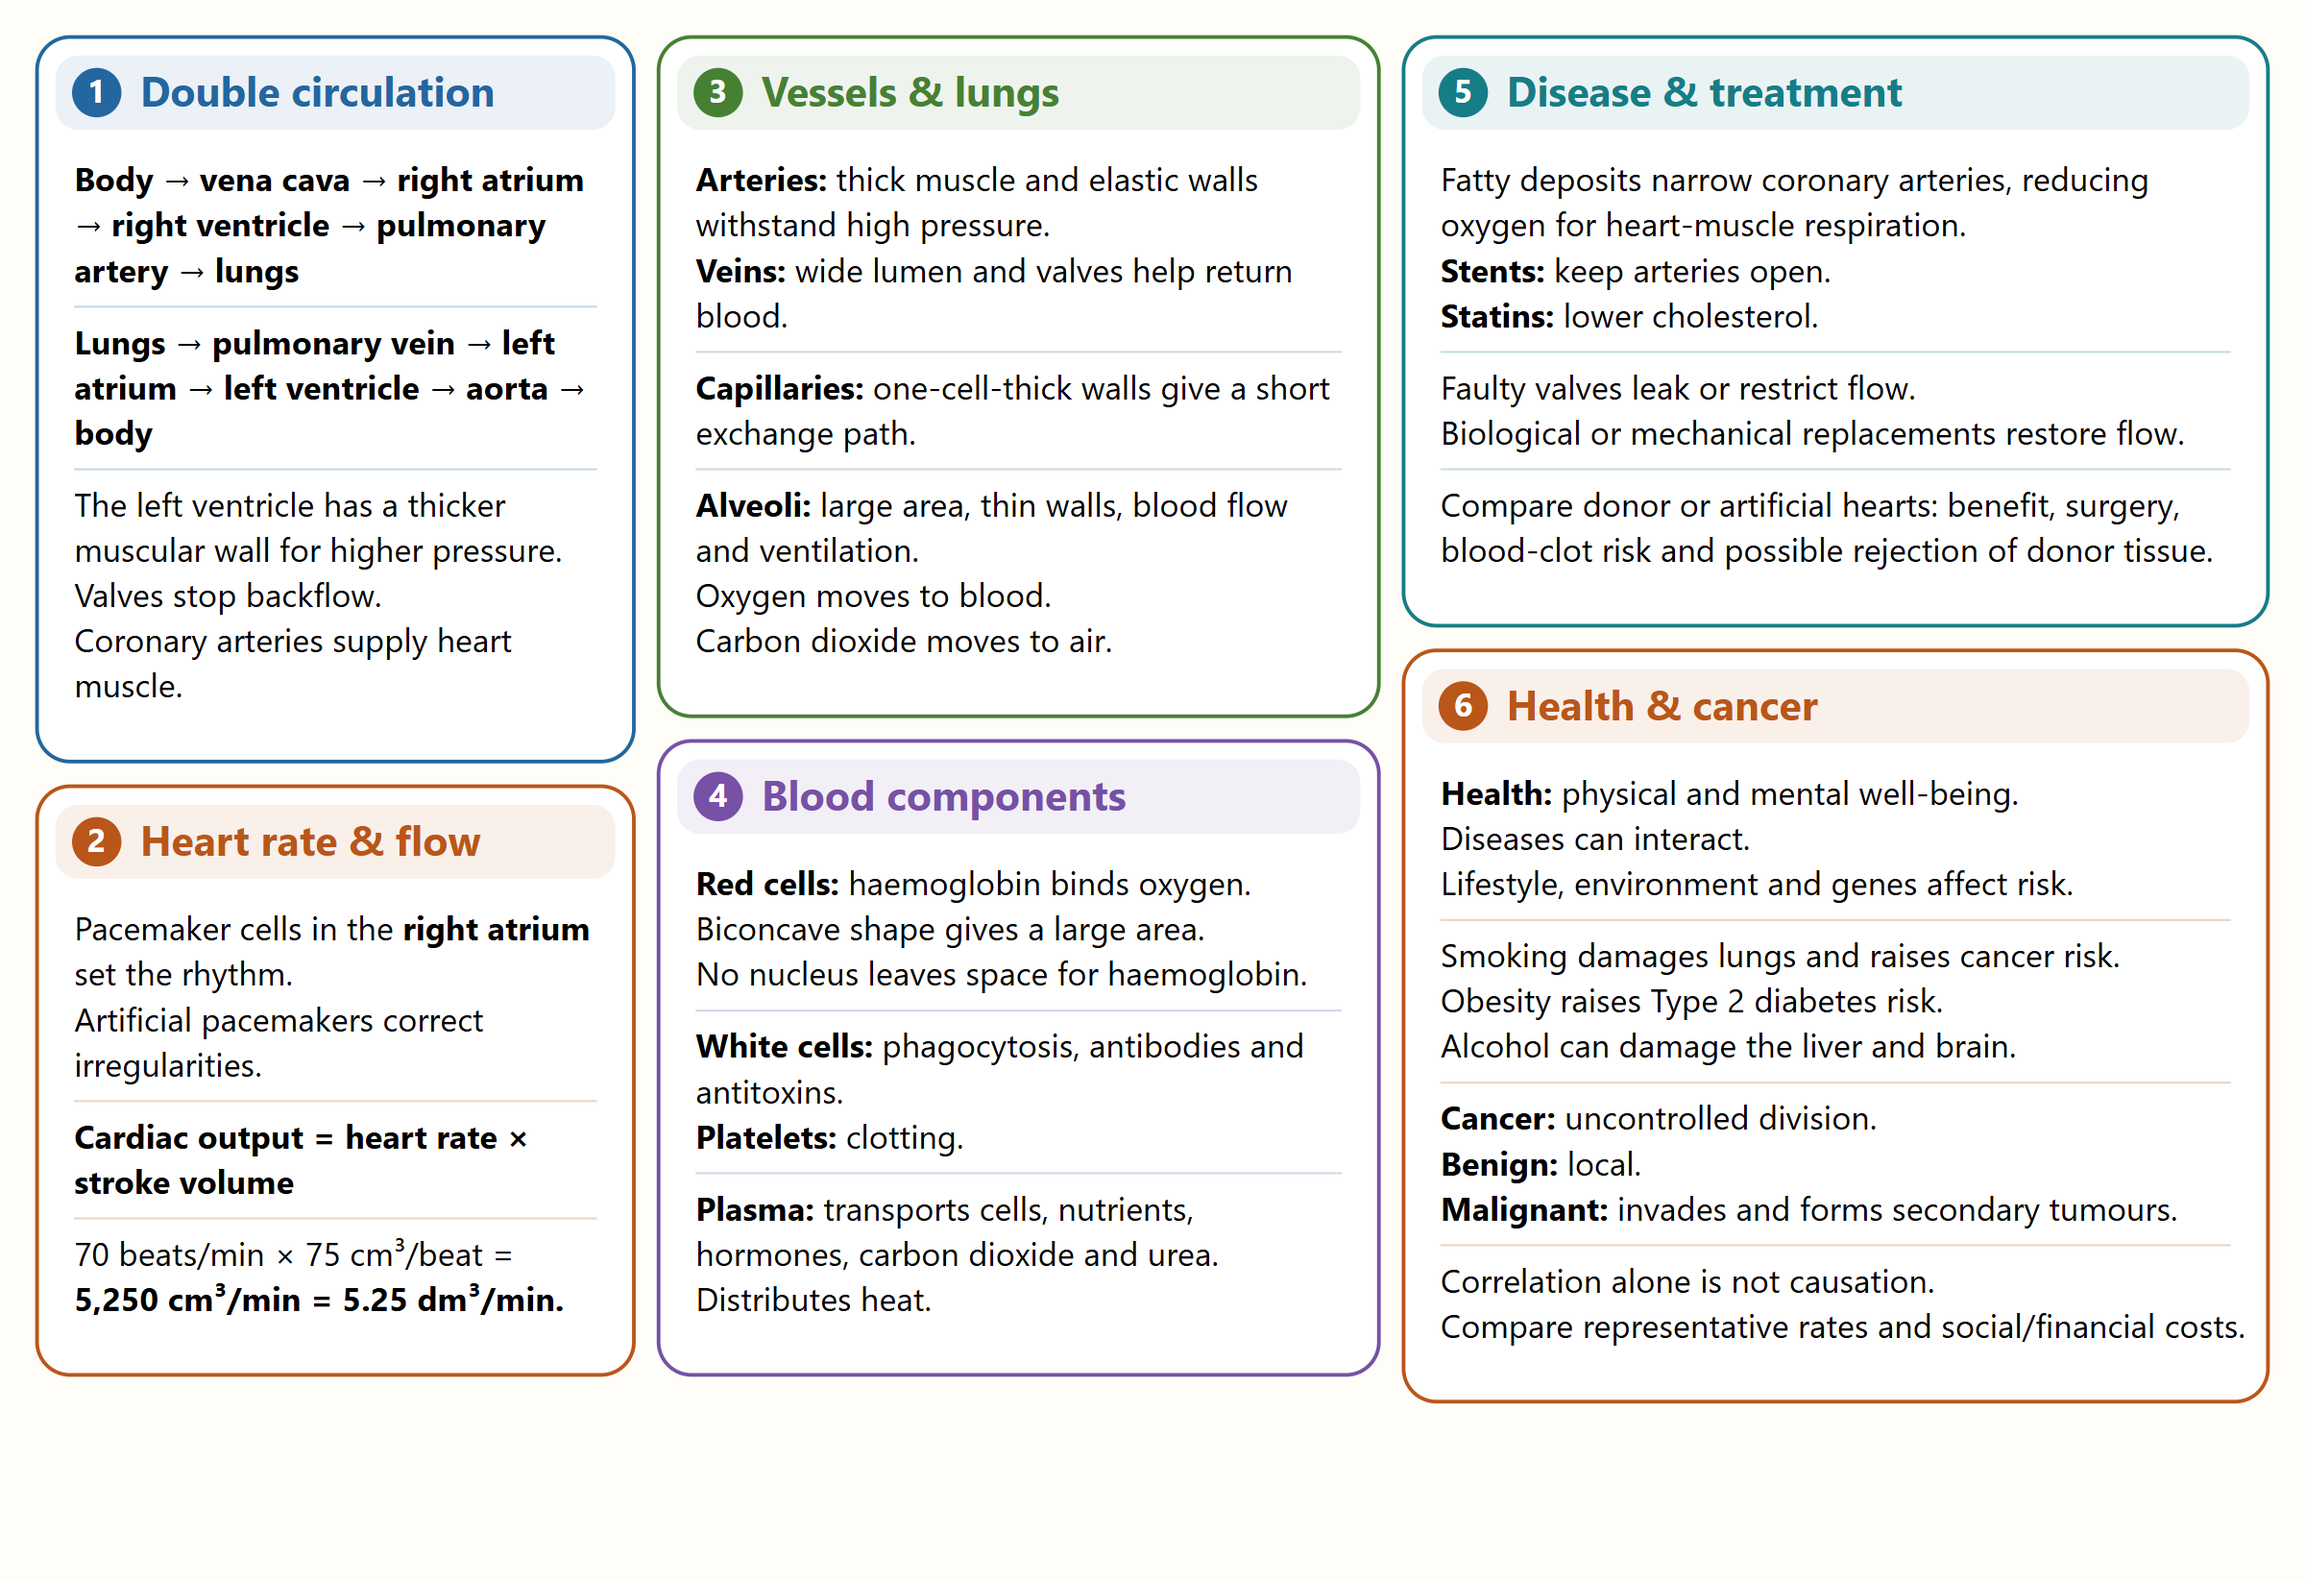
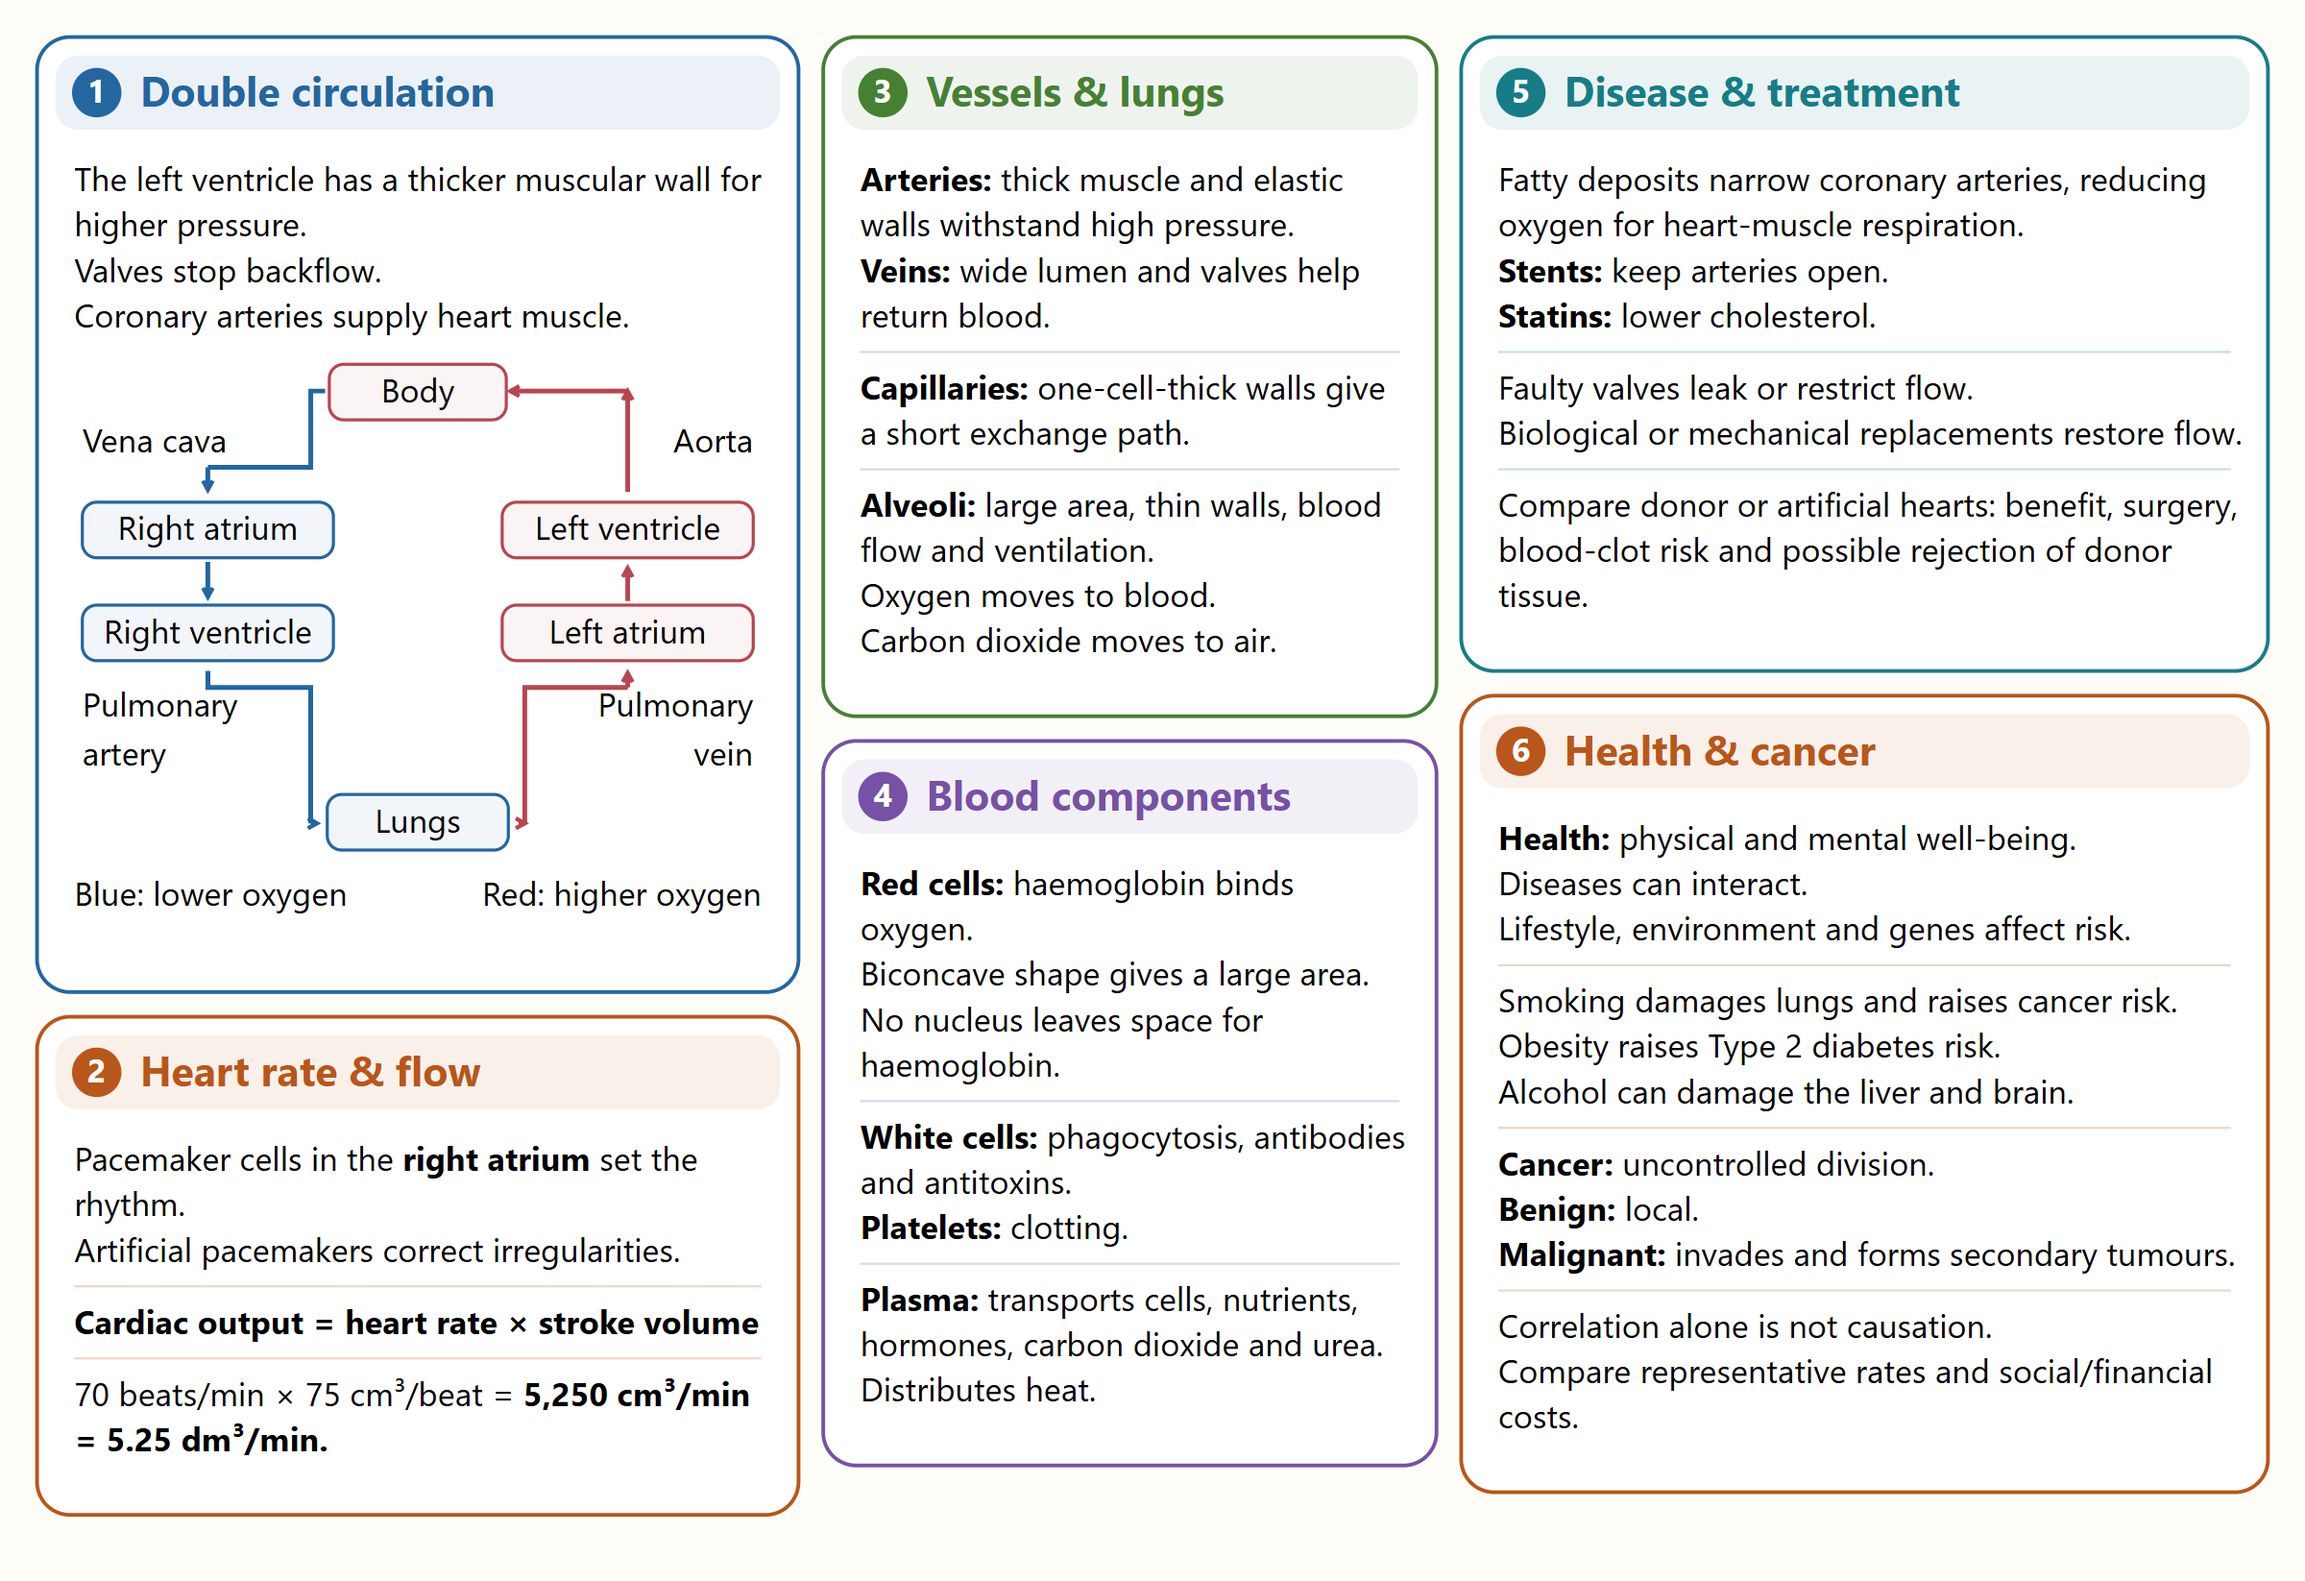
feat: restore explanatory Organisation diagrams

Changed region(s): [[0.0, 0.0, 1.0, 0.9295]]

diff --git a/scripts/biology_explanatory_figures.py b/scripts/biology_explanatory_figures.py
@@ -72,7 +72,7 @@ def enzyme(w):
             s+=arrow(x,59,x,48,ORANGE)
         s+=label(x,16,['Substrate','Bound','Products'][i],'middle')
         if i<2:s+=arrow(x+38,86,x+step-38,86)
-    s+=label(w/2,127,'Active site fits; enzyme is reused','middle')
+    s+=label(w/2,127,'Enzyme unchanged and reused','middle')
     return s,138
 
 def circulation(w):
@@ -80,11 +80,11 @@ def circulation(w):
     left=65;right=w-65;mid=w/2;bw=122
     s=box(mid-43,0,86,27,'Body',RED)+box(mid-44,209,88,27,'Lungs',BLUE)
     for x,y,value,c in [(left,67,'Right atrium',BLUE),(left,117,'Right ventricle',BLUE),(right,67,'Left ventricle',RED),(right,117,'Left atrium',RED)]:s+=box(x-bw/2,y,bw,27,value,c)
-    s+=arrow(mid-45,13,left,13,BLUE)+arrow(left,13,left,61,BLUE)+label(4,43,'Vena cava')
-    s+=arrow(left,96,left,113,BLUE)+arrow(left,149,left,223,BLUE)+arrow(left,223,mid-49,223,BLUE)
-    s+=label(4,171,'Pulmonary')+label(4,191,'artery')
-    s+=arrow(mid+49,223,right,223,RED)+arrow(right,223,right,150,RED)
-    s+=label(w-4,171,'Pulmonary','end')+label(w-4,191,'vein','end')
+    s+=f'<path d="M{mid-45} 13H115V50H{left}" stroke="{BLUE}" stroke-width="2.3" fill="none"/>'+arrow(left,50,left,61,BLUE)+label(4,43,'Vena cava')
+    s+=arrow(left,96,left,113,BLUE)+f'<path d="M{left} 149V157H115V223" stroke="{BLUE}" stroke-width="2.3" fill="none"/>'+arrow(115,223,mid-49,223,BLUE)
+    s+=label(4,171,'Pulmonary')+label(4,195,'artery')
+    s+=arrow(mid+49,223,w-115,223,RED)+f'<path d="M{w-115} 223V157H{right}" stroke="{RED}" stroke-width="2.3" fill="none"/>'+arrow(right,157,right,150,RED)
+    s+=label(w-4,171,'Pulmonary','end')+label(w-4,195,'vein','end')
     s+=arrow(right,115,right,99,RED)+arrow(right,62,right,13,RED)+arrow(right,13,mid+45,13,RED)+label(w-4,43,'Aorta','end')
     s+=f'<path d="M{left+46} 35H{right-46}" stroke="#aab9c2" stroke-width="1" stroke-dasharray="3 3"/>' if w>370 else ''
     s+=label(0,263,'Blue: lower oxygen')+label(w,263,'Red: higher oxygen','end')
